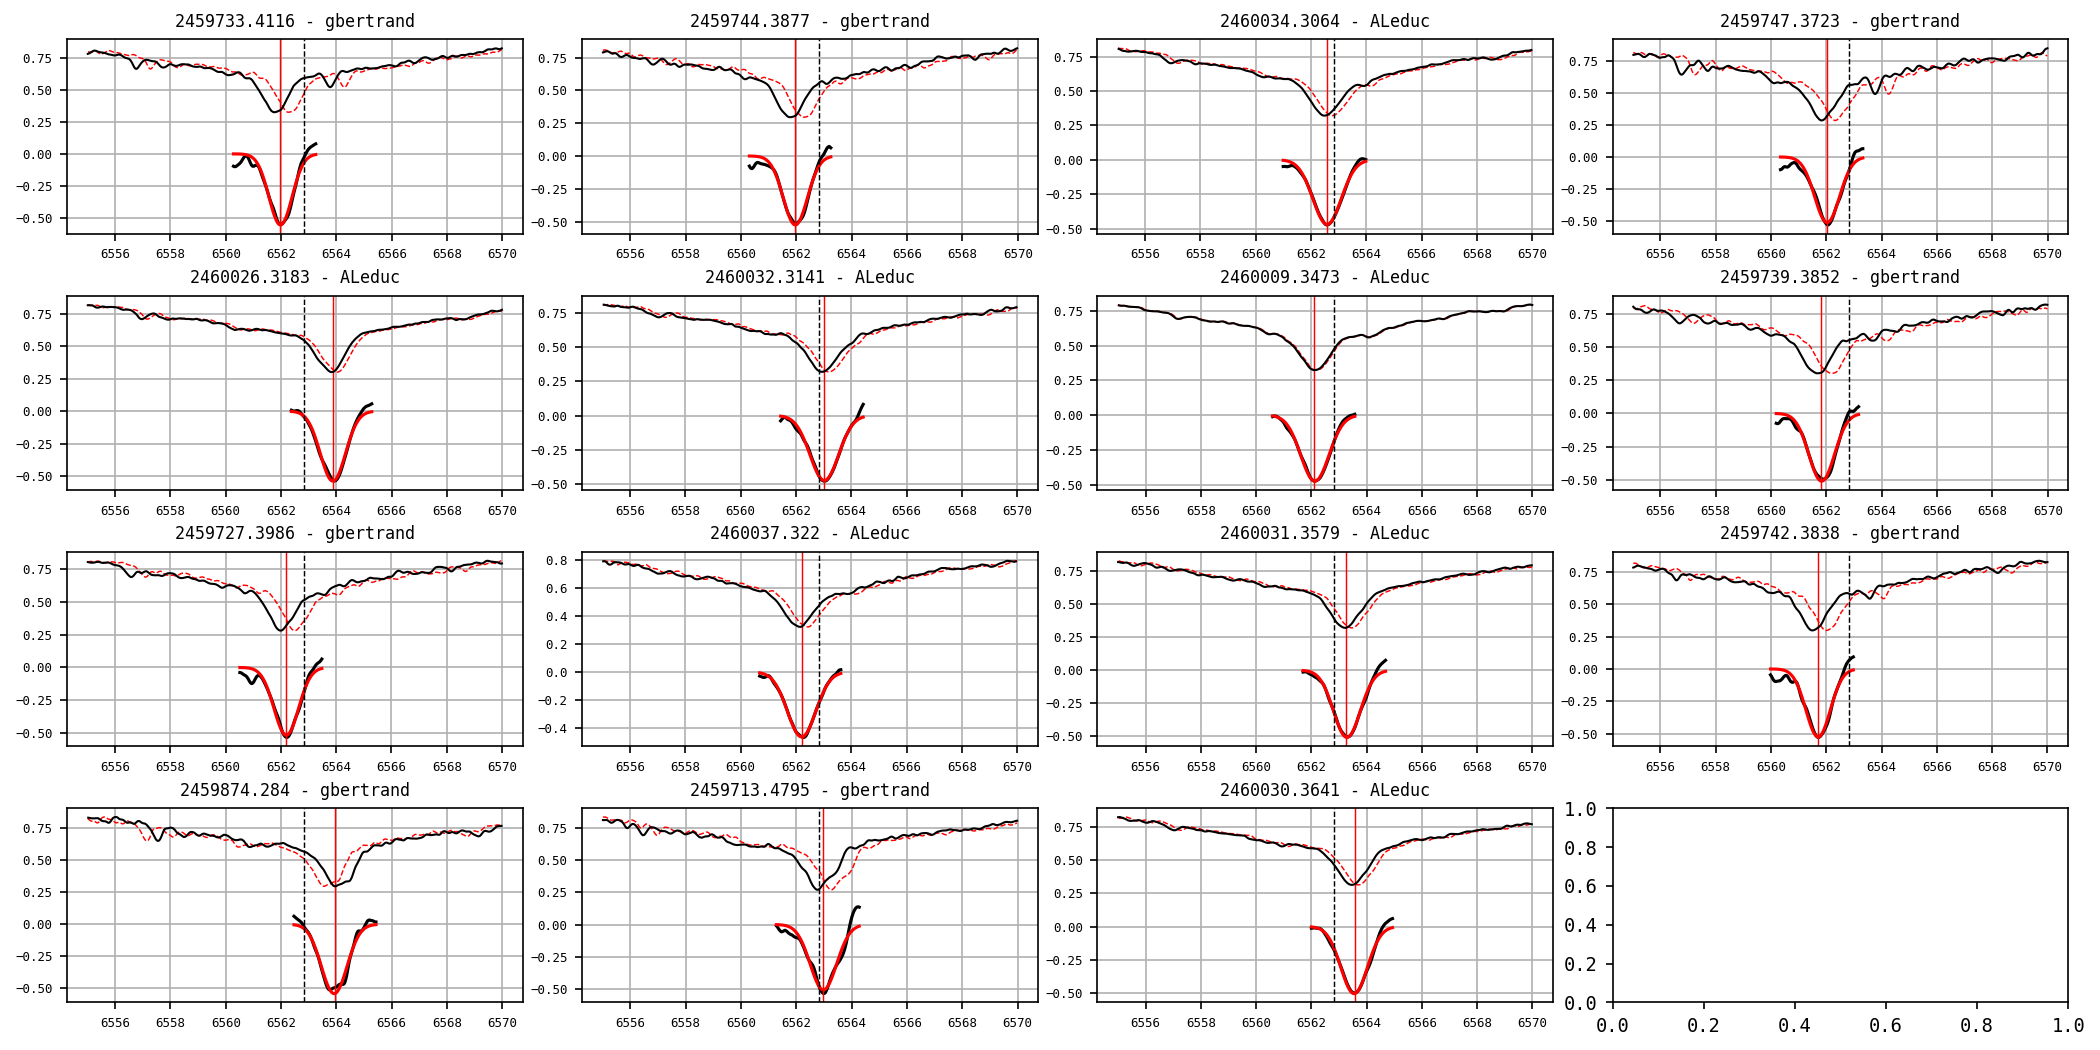
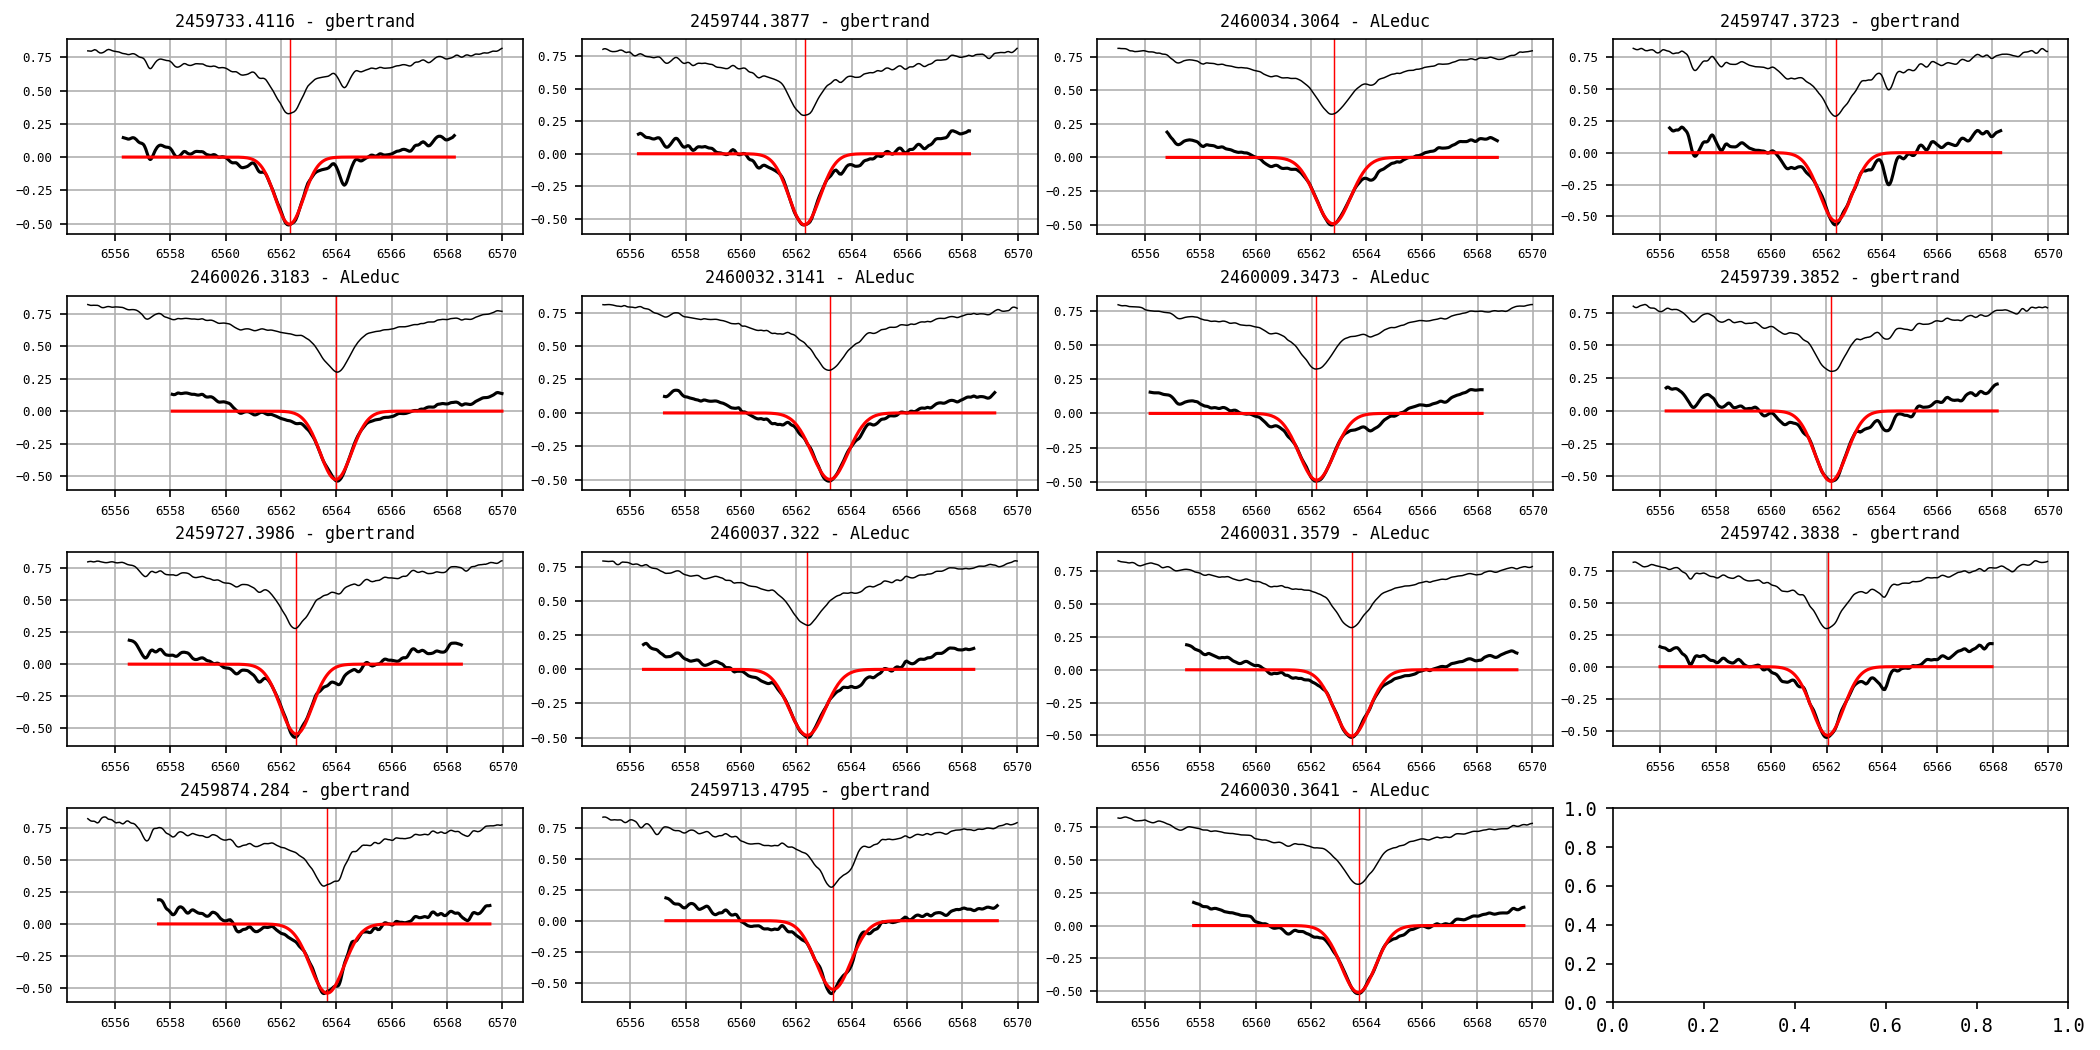
fix

diff --git a/bss.py b/bss.py
@@ -74,16 +74,13 @@ def extractObservations(specs, period = None):
             else:
                 rvc = radialVelocityCorrection(sc, header['JD-OBS'], header['GEO_LONG'], header['GEO_LAT'], header['GEO_ELEV'])
             logging.info('      - Radial velocity correction (%s) : %s '% (conf['radial_velocity_correction'],rvc))
-            center = findCenterOfLine(f, rvc, ax)
-            rv = getRadialVelocity(center) 
+            center = findCenterOfLine(f, ax)
+            rv = getRadialVelocity(center, rvc) 
             logging.info('      - Center of line : %s ± %s'% (center[0], center[1]))
             logging.info('      - Radial velocity : %s ± %s'% rv)
 
-            
-            ax.plot(center[2].spectral_axis.to(u.AA), center[2].flux , "r--", label="Original spectrum",lw=0.7)
-            ax.plot(center[3].spectral_axis.to(u.AA), center[3].flux, "k-", label="Shifted spectrum - %s correction" % conf['radial_velocity_correction'],lw=1)
+            ax.plot(center[2].spectral_axis.to(u.AA), center[2].flux , "k", label="Original spectrum",lw=0.7)
         
-            ax.axvline(x=6562.82, color='k', linestyle='--',lw=0.7)
             ax.set_title('%s - %s' % (header['JD-OBS'],header['OBSERVER']), fontsize="8")
             ax.grid(True)
             ax.tick_params(axis='both', which='major', labelsize=6)
@@ -127,8 +124,7 @@ def dopplerShift(s,vrad):
     flux = np.interp(wave,wave_out,flux) 
     return Spectrum1D(flux=flux, spectral_axis=wave_out)
 
-
-def findCenterOfLine(spectrum,radial_velocity_correction,ax):
+def findCenterOfLine(spectrum,ax):
     specdata = spectrum[0].data
     header = spectrum[0].header
     with warnings.catch_warnings():  # Ignore warnings
@@ -138,34 +134,37 @@ def findCenterOfLine(spectrum,radial_velocity_correction,ax):
                                     'CUNIT1': 'Angstroms', 'CTYPE1': 'WAVE',
                                     'CRPIX1': header['CRPIX1']})
         flux= specdata * u.Jy
-        rs = Spectrum1D(flux=flux, wcs=wcs_data)
-        if radial_velocity_correction:
-            s = dopplerShift(rs, radial_velocity_correction)
+        s = Spectrum1D(flux=flux, wcs=wcs_data)
+        #if radial_velocity_correction:
+        #  s = dopplerShift(rs, radial_velocity_correction)
  
         ipeak = s.flux.argmin()
         xpeak = s.spectral_axis[ipeak].to(u.AA)
 
-        invert_s = extract_region(Spectrum1D(flux=s.flux*-1+(1*u.Jy), wcs=wcs_data),SpectralRegion(xpeak-(1.5*u.AA), xpeak+(1.5*u.AA)))
+        invert_s = extract_region(Spectrum1D(flux=s.flux*-1, wcs=wcs_data),SpectralRegion(xpeak-(6*u.AA), xpeak+(6*u.AA)))
+        s_fit = fit_generic_continuum(invert_s, exclude_regions=[SpectralRegion(xpeak-(.5*u.AA), xpeak+(.5*u.AA))])
+        invert_s   = invert_s / s_fit(invert_s.spectral_axis)
+        invert_s = invert_s - 1
 
-        with warnings.catch_warnings():  # Ignore warnings
-            warnings.simplefilter('ignore')
-            g1_fit = fit_generic_continuum(invert_s)
-            y_continuum_fitted = g1_fit(invert_s.spectral_axis)
-            invert_s = Spectrum1D(flux=invert_s.flux / y_continuum_fitted*u.Jy -.8*u.Jy , spectral_axis = invert_s.spectral_axis)
+        # with warnings.catch_warnings():  # Ignore warnings
+        #     warnings.simplefilter('ignore')
+        #     g1_fit = fit_generic_continuum(invert_s)
+        #     y_continuum_fitted = g1_fit(invert_s.spectral_axis)
+        #     invert_s = Spectrum1D(flux=invert_s.flux / y_continuum_fitted*u.Jy -.8*u.Jy , spectral_axis = invert_s.spectral_axis)
 
-        g_init = models.Gaussian1D(amplitude=invert_s.flux.argmax()*u.Jy-.8*u.Jy, mean=xpeak, stddev=.2*u.AA)
-        g_fit = fit_lines(invert_s, g_init)
-        y_fit = g_fit(invert_s.spectral_axis) * -1
+        g_init = models.Gaussian1D(mean=xpeak, amplitude=invert_s.flux.argmax())
+        g_fit = fit_lines(invert_s, g_init,window=SpectralRegion(xpeak-(.5*u.AA), xpeak+(.5*u.AA)))
+        y_fit = g_fit(invert_s.spectral_axis) 
         ipeak = y_fit.argmin()
         xpeak = invert_s.spectral_axis[ipeak].to(u.AA)
 
-        ax.plot(invert_s.spectral_axis.to(u.AA), invert_s.flux*-1, color="k")
+        ax.plot(invert_s.spectral_axis.to(u.AA), invert_s.flux, color="k")
         ax.plot(invert_s.spectral_axis.to(u.AA), y_fit, color="r")
         ax.axvline(x=xpeak.value, color='r', linestyle='-',lw=0.7)
      
         region = SpectralRegion(6555*u.AA, 6570*u.AA)
  
-        return (xpeak, 0, extract_region(rs,region),extract_region(s,region))
+        return (xpeak, 0, extract_region(s,region))
     
 def initPlot():
     plt.rcParams['font.size'] = conf['font_size']
